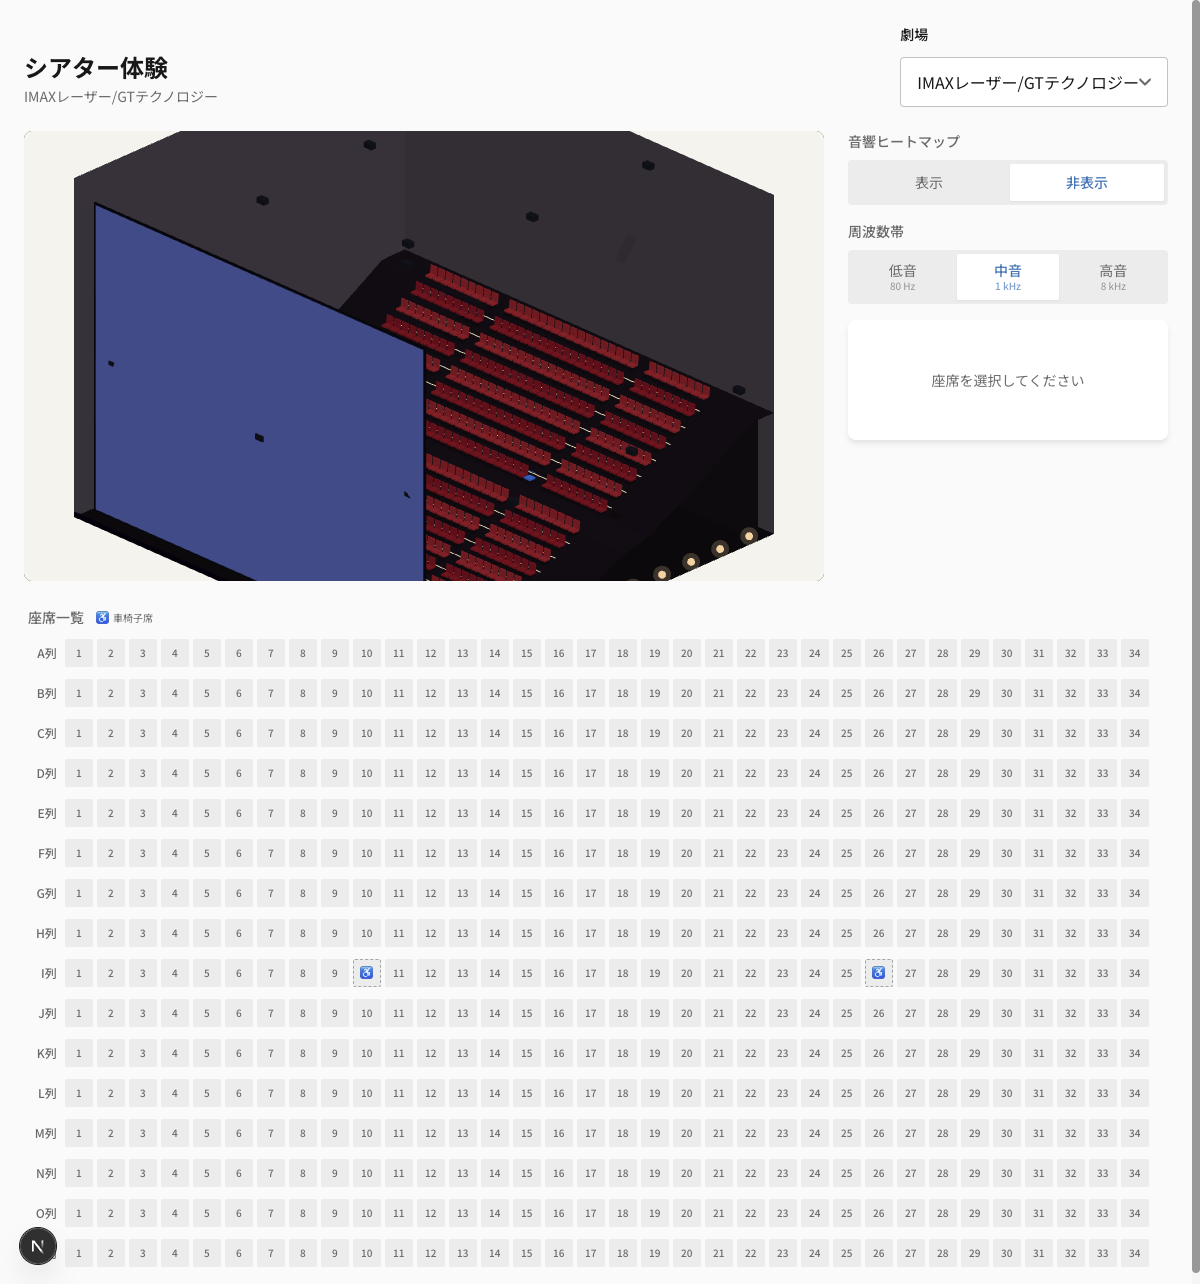
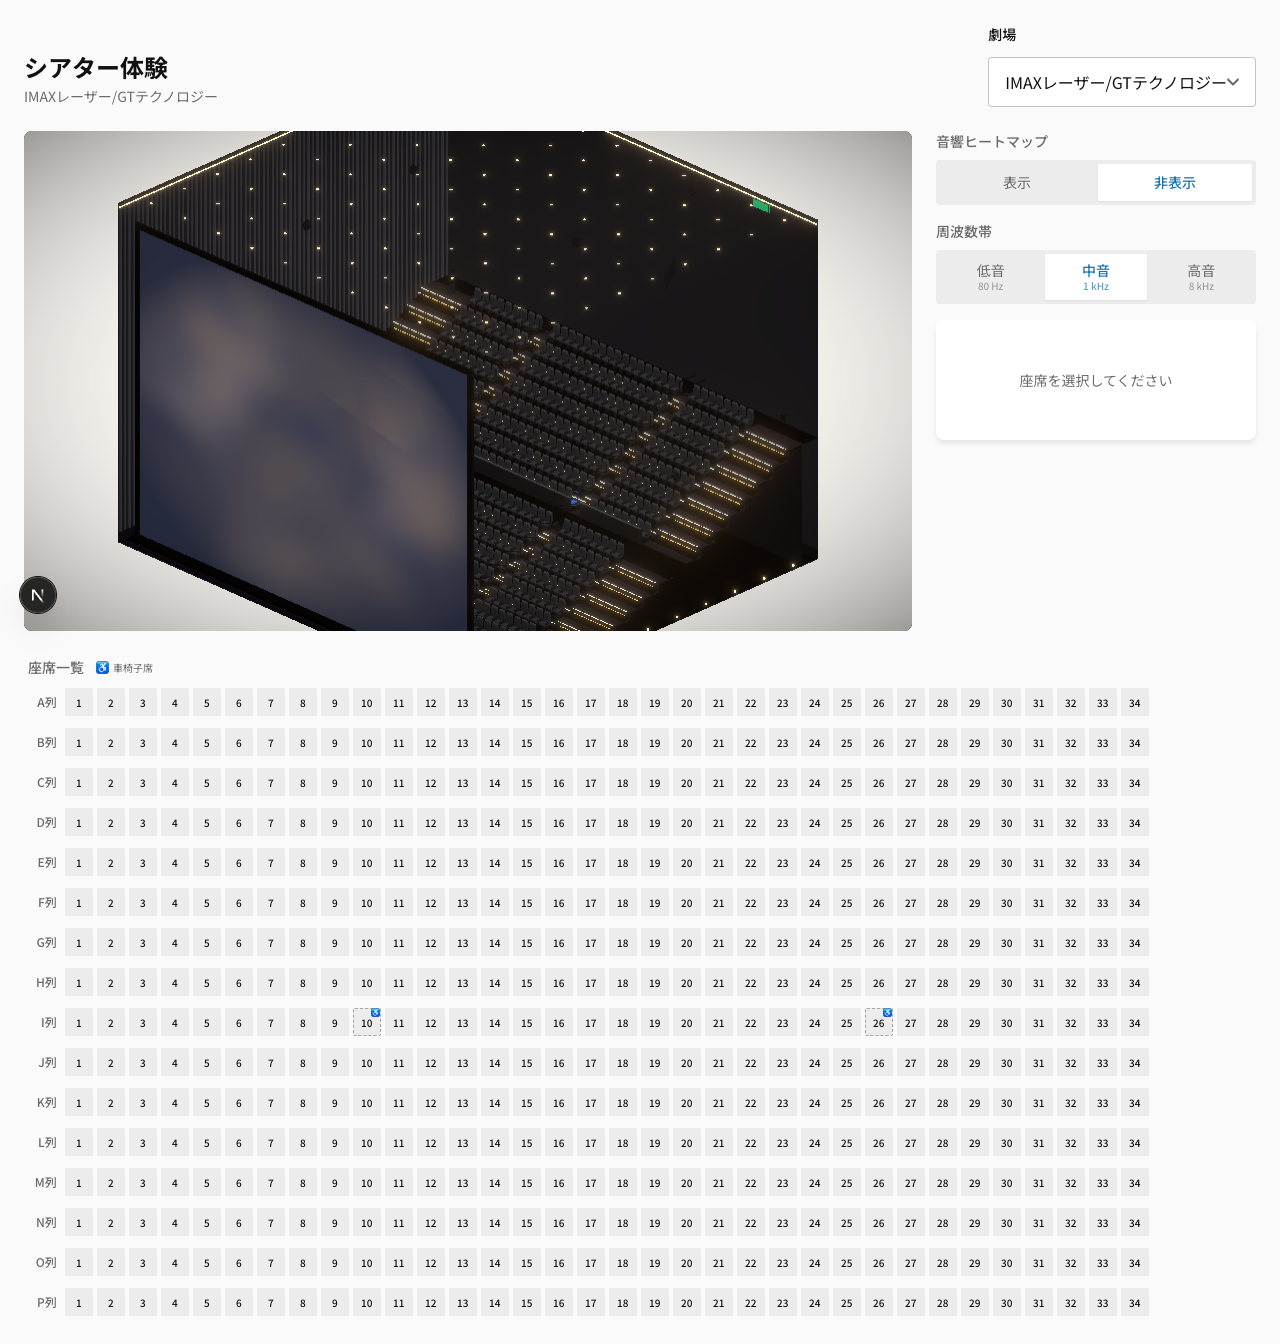
feat(theater): 視点別ライティングを追加しE2Eスクリーンショットを更新 (#621)
内装意匠刷新の最終段。実映画館の「暗闇＋局所照明」を一人称視点でのみ再現する。

- utils/adaptiveLighting.ts を新規追加。視点別の強度と、フライスルーと同じ
  イージング（easeOutCubic）での補間を純ロジックとして持つ
- theaterScene に AdaptiveLighting を追加。座席選択時にカメラのフライスルーと
  同じ 0.55 秒で光量を補間し、移動と同期させる
- prefers-reduced-motion 有効時は遷移時間0＝即時切替にする（WCAG 2.3.3）

俯瞰の強度（ambient 0.5 / hemisphere 0.35 / directional 1.15）は据え置いた。
俯瞰はそのまま座席選択UIであり、暗くすると座席の識別性（設計書 §2.3）と既存の
E2Eスクリーンショットが壊れるため。値そのものをテストで固定し、以降の変更で
意図せず動かないようにしている。

一人称は ambient 0.12 / hemisphere 0.10 / directional 0.25 に落とす。完全な
暗黒にはせず、形が見えなくならない下限を保つ（これもテストで担保）。

docs/e2e-screenshots/theater-types-*.png 4枚を撮り直して同名で上書きした
（PR #609〜#619 の意匠変更をすべて反映した状態）。

Closes #620

diff --git a/src/features/theaterExperience/component/theaterScene/theaterScene.tsx b/src/features/theaterExperience/component/theaterScene/theaterScene.tsx
@@ -17,6 +17,9 @@ import {
   PlaneGeometry,
   Vector3,
   Color,
+  type AmbientLight,
+  type DirectionalLight,
+  type HemisphereLight,
   type Texture,
   type OrthographicCamera as OrthographicCameraType,
   type PerspectiveCamera as PerspectiveCameraType,
@@ -38,6 +41,11 @@ import {
   interpolateFloorHeight,
 } from '../../utils/theaterGeometry';
 import type { SeatXSegment } from '../../utils/theaterGeometry';
+import {
+  calcLightIntensities,
+  getTargetIntensities,
+  type LightIntensities,
+} from '../../utils/adaptiveLighting';
 import {
   calcNormalGap,
   computeAisleSteps,
@@ -477,6 +485,106 @@ const PITCH_DEADZONE_RAD = (PITCH_DEADZONE_DEG * Math.PI) / 180;
 const FLYTHROUGH_DURATION_S = 0.55;
 
 /**
+ * 視点別ライティング。
+ *
+ * 実映画館は「暗闇＋局所照明」だが、俯瞰（等角投影）はそのまま座席選択UIなので
+ * ここを暗くすると座席の識別性（設計書 §2.3）と既存E2Eスクリーンショットが壊れる。
+ * そのため俯瞰は既存値のまま据え置き、一人称だけ劇場照明に落とす。
+ *
+ * 座席選択時にはカメラのフライスルーがあるため、光量変化も同じ時間・同じイージングで
+ * 進めて移動と同期させる。prefers-reduced-motion 有効時は即時切替にする。
+ *
+ * 毎フレームのコストはスカラー代入3回で、描画負荷には影響しない。
+ */
+const AdaptiveLighting = memo<{
+  roomWidth: number;
+  roomDepth: number;
+  roomHeight: number;
+  isFirstPerson: boolean;
+  reducedMotion: boolean;
+}>(function AdaptiveLighting({
+  roomWidth,
+  roomDepth,
+  roomHeight,
+  isFirstPerson,
+  reducedMotion,
+}) {
+  const ambientRef = useRef<AmbientLight>(null);
+  const hemisphereRef = useRef<HemisphereLight>(null);
+  const directionalRef = useRef<DirectionalLight>(null);
+
+  const target = useMemo(
+    () => getTargetIntensities(isFirstPerson),
+    [isFirstPerson],
+  );
+  // 遷移の開始値と経過秒。視点が切り替わった時点の実強度から補間を再開する
+  const anim = useRef<{ from: LightIntensities; elapsed: number }>({
+    from: target,
+    elapsed: FLYTHROUGH_DURATION_S,
+  });
+
+  useEffect(() => {
+    anim.current = {
+      from: {
+        ambient: ambientRef.current?.intensity ?? target.ambient,
+        hemisphere: hemisphereRef.current?.intensity ?? target.hemisphere,
+        directional: directionalRef.current?.intensity ?? target.directional,
+      },
+      elapsed: 0,
+    };
+  }, [target]);
+
+  useFrame((_, delta) => {
+    const duration = reducedMotion ? 0 : FLYTHROUGH_DURATION_S;
+    const a = anim.current;
+    if (a.elapsed < FLYTHROUGH_DURATION_S) {
+      a.elapsed = Math.min(a.elapsed + delta, FLYTHROUGH_DURATION_S);
+    }
+    const next = calcLightIntensities(a.from, target, a.elapsed, duration);
+    if (ambientRef.current) ambientRef.current.intensity = next.ambient;
+    if (hemisphereRef.current)
+      hemisphereRef.current.intensity = next.hemisphere;
+    if (directionalRef.current) {
+      directionalRef.current.intensity = next.directional;
+    }
+  });
+
+  return (
+    <>
+      {/*
+        ライティング: 旧実装は ambient=1.0 優位（ambient:directional≈1.67:1）で
+        キーライトが形を変調できず全体がフラットだった。ambient を下げ directional を
+        上げて比を反転（≈1:2）し、座席・壁に陰影と接地感を出す。hemisphereLight で
+        天井側の淡いフィル（sky→ground のグラデ）を加え、暗部が潰れ過ぎないようにする。
+        強度は毎フレーム AdaptiveLighting が書き換えるため、ここは初期値。
+      */}
+      <ambientLight ref={ambientRef} intensity={target.ambient} />
+      {/* args=[skyColor, groundColor, intensity]（groundColor はコンストラクタ引数で渡す） */}
+      <hemisphereLight
+        ref={hemisphereRef}
+        args={[COLOR_HEMI_SKY, COLOR_HEMI_GROUND, target.hemisphere]}
+      />
+      <directionalLight
+        ref={directionalRef}
+        position={[10, 20, 5]}
+        intensity={target.directional}
+        castShadow
+        shadow-mapSize-width={1024}
+        shadow-mapSize-height={1024}
+        shadow-camera-left={-roomWidth / 2}
+        shadow-camera-right={roomWidth / 2}
+        shadow-camera-top={roomDepth / 2}
+        shadow-camera-bottom={-roomDepth / 2}
+        shadow-camera-near={0.1}
+        shadow-camera-far={roomHeight + 30}
+        shadow-bias={-0.002}
+      />
+    </>
+  );
+});
+AdaptiveLighting.displayName = 'AdaptiveLighting';
+
+/**
  * 等角投影カメラ + lookAt 原点向き
  * drei の OrthographicCamera は lookAt プロパティを取らないため
  * ref 経由で手動で向きを設定する
@@ -796,28 +904,13 @@ export const TheaterScene = memo<TheaterSceneProps>(function TheaterScene({
         />
       )}
 
-      {/*
-        ライティング: 旧実装は ambient=1.0 優位（ambient:directional≈1.67:1）で
-        キーライトが形を変調できず全体がフラットだった。ambient を下げ directional を
-        上げて比を反転（≈1:2）し、座席・壁に陰影と接地感を出す。hemisphereLight で
-        天井側の淡いフィル（sky→ground のグラデ）を加え、暗部が潰れ過ぎないようにする。
-      */}
-      <ambientLight intensity={0.5} />
-      {/* args=[skyColor, groundColor, intensity]（groundColor はコンストラクタ引数で渡す） */}
-      <hemisphereLight args={[COLOR_HEMI_SKY, COLOR_HEMI_GROUND, 0.35]} />
-      <directionalLight
-        position={[10, 20, 5]}
-        intensity={1.15}
-        castShadow
-        shadow-mapSize-width={1024}
-        shadow-mapSize-height={1024}
-        shadow-camera-left={-roomWidth / 2}
-        shadow-camera-right={roomWidth / 2}
-        shadow-camera-top={roomDepth / 2}
-        shadow-camera-bottom={-roomDepth / 2}
-        shadow-camera-near={0.1}
-        shadow-camera-far={roomHeight + 30}
-        shadow-bias={-0.002}
+      {/* 視点別ライティング（俯瞰は現状維持 / 一人称は劇場照明へ補間） */}
+      <AdaptiveLighting
+        roomWidth={roomWidth}
+        roomDepth={roomDepth}
+        roomHeight={roomHeight}
+        isFirstPerson={selectedSeat !== null}
+        reducedMotion={reducedMotion}
       />
 
       {/*

diff --git a/src/features/theaterExperience/utils/adaptiveLighting.test.ts b/src/features/theaterExperience/utils/adaptiveLighting.test.ts
@@ -1,0 +1,120 @@
+/**
+ * adaptiveLighting テスト
+ */
+
+import {
+  FIRST_PERSON_INTENSITIES,
+  OVERVIEW_INTENSITIES,
+  calcLightIntensities,
+  getTargetIntensities,
+  lerpIntensities,
+} from './adaptiveLighting';
+
+describe('OVERVIEW_INTENSITIES', () => {
+  it('俯瞰の強度は既存値から変えない（座席選択UIとE2Eスクショを守る）', () => {
+    // 変更するとスタジアム客席の識別性とE2Eスクリーンショットに影響するため、
+    // 値そのものをテストで固定する
+    expect(OVERVIEW_INTENSITIES).toEqual({
+      ambient: 0.5,
+      hemisphere: 0.35,
+      directional: 1.15,
+    });
+  });
+});
+
+describe('getTargetIntensities', () => {
+  it('俯瞰では俯瞰用の強度を返す', () => {
+    expect(getTargetIntensities(false)).toBe(OVERVIEW_INTENSITIES);
+  });
+
+  it('一人称では一人称用の強度を返す', () => {
+    expect(getTargetIntensities(true)).toBe(FIRST_PERSON_INTENSITIES);
+  });
+
+  it('一人称は全ての光源が俯瞰より暗い（劇場らしい暗さになる）', () => {
+    const over = getTargetIntensities(false);
+    const fpv = getTargetIntensities(true);
+    expect(fpv.ambient).toBeLessThan(over.ambient);
+    expect(fpv.hemisphere).toBeLessThan(over.hemisphere);
+    expect(fpv.directional).toBeLessThan(over.directional);
+  });
+
+  it('一人称でも完全な暗黒にはしない（形が全く見えなくなるのを防ぐ）', () => {
+    const fpv = getTargetIntensities(true);
+    expect(fpv.ambient).toBeGreaterThan(0);
+    expect(fpv.hemisphere).toBeGreaterThan(0);
+    expect(fpv.directional).toBeGreaterThan(0);
+  });
+});
+
+describe('lerpIntensities', () => {
+  const from = { ambient: 0, hemisphere: 0, directional: 0 };
+  const to = { ambient: 1, hemisphere: 2, directional: 4 };
+
+  it('t=0 では開始値、t=1 では目標値になる', () => {
+    expect(lerpIntensities(from, to, 0)).toEqual(from);
+    expect(lerpIntensities(from, to, 1)).toEqual(to);
+  });
+
+  it('t=0.5 では中間値になる', () => {
+    expect(lerpIntensities(from, to, 0.5)).toEqual({
+      ambient: 0.5,
+      hemisphere: 1,
+      directional: 2,
+    });
+  });
+
+  it('範囲外の t はクランプする', () => {
+    expect(lerpIntensities(from, to, -1)).toEqual(from);
+    expect(lerpIntensities(from, to, 2)).toEqual(to);
+  });
+});
+
+describe('calcLightIntensities', () => {
+  const from = OVERVIEW_INTENSITIES;
+  const to = FIRST_PERSON_INTENSITIES;
+  const duration = 0.55;
+
+  it('経過0では開始値のままになる', () => {
+    expect(calcLightIntensities(from, to, 0, duration)).toEqual(from);
+  });
+
+  it('経過が遷移時間に達したら目標値になる', () => {
+    const result = calcLightIntensities(from, to, duration, duration);
+    expect(result.ambient).toBeCloseTo(to.ambient);
+    expect(result.hemisphere).toBeCloseTo(to.hemisphere);
+    expect(result.directional).toBeCloseTo(to.directional);
+  });
+
+  it('遷移時間を超えても目標値で静止する（冪等）', () => {
+    expect(calcLightIntensities(from, to, duration * 3, duration)).toEqual(
+      calcLightIntensities(from, to, duration, duration),
+    );
+  });
+
+  it('ease-out のため前半の変化量が後半より大きい', () => {
+    const quarter = calcLightIntensities(from, to, duration * 0.25, duration);
+    const half = calcLightIntensities(from, to, duration * 0.5, duration);
+    const firstHalfDelta = from.ambient - quarter.ambient;
+    const secondHalfDelta = quarter.ambient - half.ambient;
+    expect(firstHalfDelta).toBeGreaterThan(secondHalfDelta);
+  });
+
+  it('遷移時間0なら即時に目標値を返す（prefers-reduced-motion 時）', () => {
+    expect(calcLightIntensities(from, to, 0, 0)).toBe(to);
+  });
+
+  it('遷移時間が負でも即時に目標値を返す', () => {
+    expect(calcLightIntensities(from, to, 0, -1)).toBe(to);
+  });
+
+  it('補間中は常に開始値と目標値の間に収まる', () => {
+    for (const t of [0.1, 0.3, 0.5, 0.7, 0.9]) {
+      const r = calcLightIntensities(from, to, duration * t, duration);
+      expect(r.ambient).toBeLessThanOrEqual(from.ambient);
+      expect(r.ambient).toBeGreaterThanOrEqual(to.ambient);
+      expect(r.directional).toBeLessThanOrEqual(from.directional);
+      expect(r.directional).toBeGreaterThanOrEqual(to.directional);
+    }
+  });
+});

diff --git a/src/features/theaterExperience/utils/adaptiveLighting.ts b/src/features/theaterExperience/utils/adaptiveLighting.ts
@@ -1,0 +1,89 @@
+/**
+ * 視点別ライティングの強度計算
+ *
+ * 実映画館は「暗闇＋局所照明」だが、俯瞰（等角投影）はそのまま座席選択UIなので、
+ * ここを暗くすると座席の識別性（設計書 §2.3）と既存E2Eスクリーンショットが壊れる。
+ * そこで**俯瞰は現状のまま据え置き、一人称だけ劇場照明に落とす**。
+ *
+ * メッシュ層（`component/theaterScene`）はカバレッジ除外のため、強度の決定と
+ * 補間はここへ置く。
+ */
+
+import { easeOutCubic } from './fieldOfView';
+
+/** 環境光・半球光・平行光の強度セット */
+export interface LightIntensities {
+  ambient: number;
+  hemisphere: number;
+  directional: number;
+}
+
+/**
+ * 俯瞰時の強度。既存値をそのまま据え置く（変更すると座席選択UIの可用性と
+ * E2Eスクリーンショットに影響するため）。
+ */
+export const OVERVIEW_INTENSITIES: LightIntensities = {
+  ambient: 0.5,
+  hemisphere: 0.35,
+  directional: 1.15,
+};
+
+/** 一人称時の強度。着座した観客が見る「暗い客席」を再現する。 */
+export const FIRST_PERSON_INTENSITIES: LightIntensities = {
+  ambient: 0.12,
+  hemisphere: 0.1,
+  directional: 0.25,
+};
+
+/**
+ * 視点に対応する目標強度を返す。
+ *
+ * @param isFirstPerson 一人称視点か
+ */
+export function getTargetIntensities(isFirstPerson: boolean): LightIntensities {
+  return isFirstPerson ? FIRST_PERSON_INTENSITIES : OVERVIEW_INTENSITIES;
+}
+
+/**
+ * 2つの強度セットを係数 t で線形補間する。
+ *
+ * @param from 開始強度
+ * @param to 目標強度
+ * @param t 0〜1（範囲外はクランプ）
+ */
+export function lerpIntensities(
+  from: LightIntensities,
+  to: LightIntensities,
+  t: number,
+): LightIntensities {
+  const k = Math.min(1, Math.max(0, t));
+  return {
+    ambient: from.ambient + (to.ambient - from.ambient) * k,
+    hemisphere: from.hemisphere + (to.hemisphere - from.hemisphere) * k,
+    directional: from.directional + (to.directional - from.directional) * k,
+  };
+}
+
+/**
+ * 経過時間から、カメラのフライスルーと同じイージングで補間した強度を返す。
+ *
+ * 座席選択時には俯瞰→一人称のフライスルー（`easeOutCubic`）があるため、光量変化も
+ * 同じ時間・同じイージングで進めてカメラ移動と同期させる。
+ *
+ * `prefers-reduced-motion` 有効時は `durationS` に 0 を渡して即時切替にする
+ * （フライスルーと同じ扱い。WCAG 2.3.3 配慮）。
+ *
+ * @param from 開始強度
+ * @param to 目標強度
+ * @param elapsedS 経過時間（秒）
+ * @param durationS 遷移時間（秒）。0 以下なら即時に to を返す
+ */
+export function calcLightIntensities(
+  from: LightIntensities,
+  to: LightIntensities,
+  elapsedS: number,
+  durationS: number,
+): LightIntensities {
+  if (durationS <= 0) return to;
+  return lerpIntensities(from, to, easeOutCubic(elapsedS / durationS));
+}
